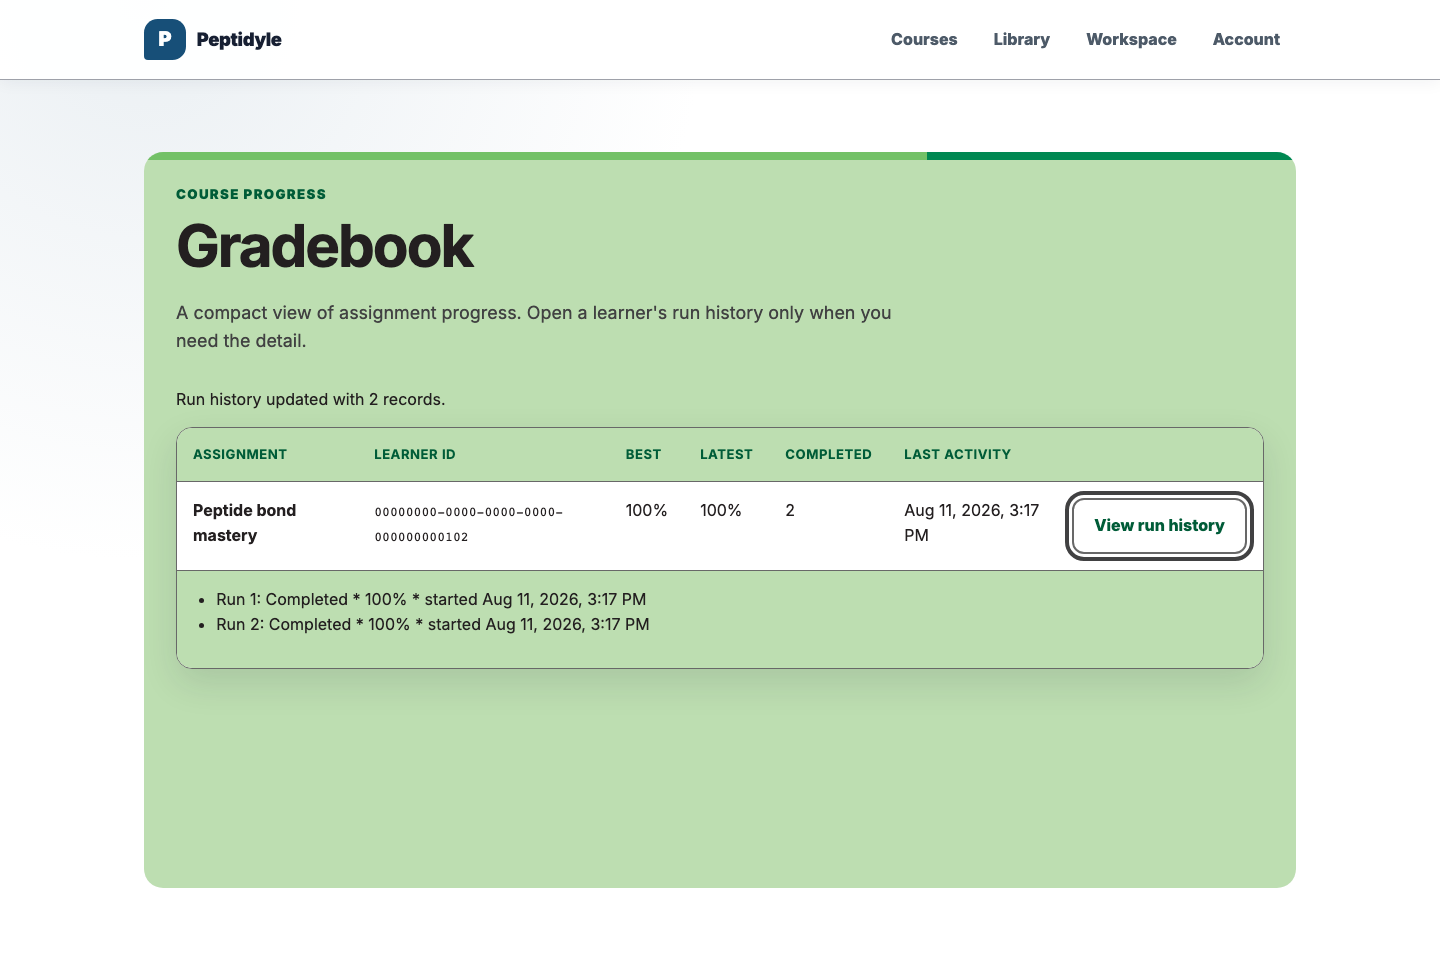
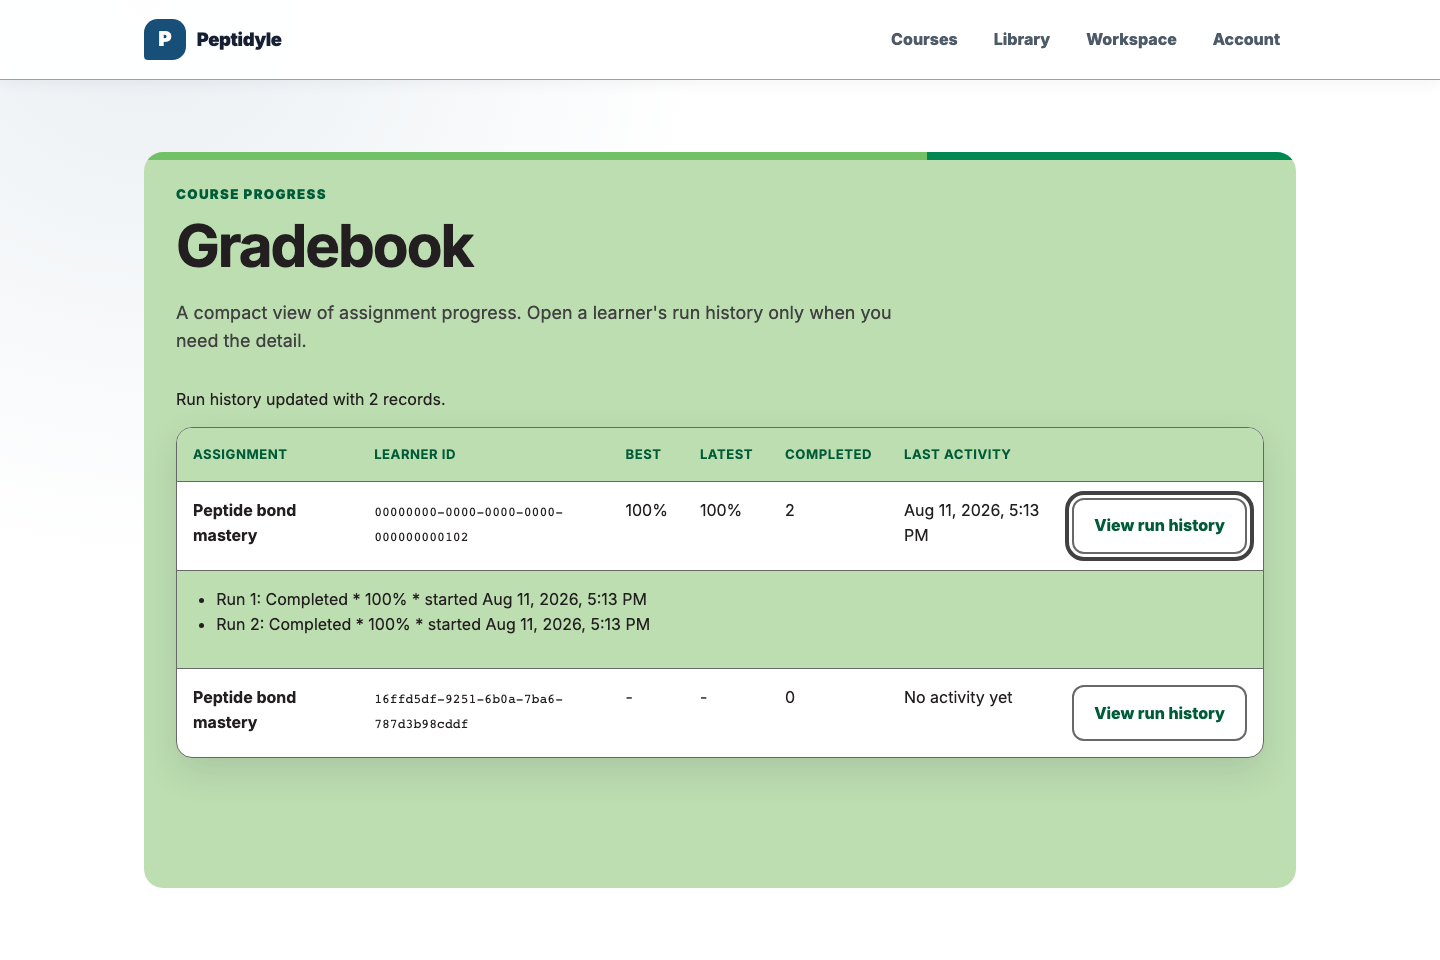
Expanded the accepted real-stack documentation capture from three ima...
instructor and student story: fake course, two-member fake roster, published problem, assignment ...

Changed region(s): [[0.125, 0.6875, 0.875, 0.8125], [0.4062, 0.625, 0.4688, 0.6562], [0.625, 0.5312, 0.6562, 0.5625]]

diff --git a/tests/playwright/ui_walkthrough_instructor_setup.spec.ts b/tests/playwright/ui_walkthrough_instructor_setup.spec.ts
@@ -15,7 +15,10 @@ import {
   learnerAliasFromValidatedFile,
 } from "./ui_walkthrough_live_config";
 import { exactCatalogResult } from "./simulator/instructor_catalog_binding";
-import { documentationScreenshotsEnabled } from "./docs_screenshot_capture";
+import {
+  captureDocumentationScreenshot,
+  documentationScreenshotsEnabled,
+} from "./docs_screenshot_capture";
 
 test.describe.configure({ mode: "serial" });
 test.setTimeout(120_000);
@@ -53,7 +56,7 @@ test("J11/J12/J13 instructor visibly prepares a local Mastery assignment and han
   const startedAt = performance.now();
   const uniqueSuffix = `${inputs.masterSeedText}-${Date.now().toString(36)}`;
   const courseTitle = documentationScreenshotsEnabled()
-    ? `Peptide bond mastery pilot ${uniqueSuffix}`
+    ? `Fake Biochemistry Course ${Date.now().toString(36).slice(-6)}`
     : `Fall pilot instructor walkthrough ${uniqueSuffix}`;
   const assignmentTitle = documentationScreenshotsEnabled()
     ? "Peptide bond mastery"
@@ -94,6 +97,7 @@ test("J11/J12/J13 instructor visibly prepares a local Mastery assignment and han
   await page.keyboard.press("Enter");
   await expect(page.getByRole("heading", { name: courseTitle, exact: true })).toBeVisible();
   writeInstructorSetupCheckpoint(inputs.instructorSetupCheckpointFile, "course_opened");
+  await captureDocumentationScreenshot(page, "instructor_course_overview.png");
   const courseId = new URL(page.url()).pathname.split("/")[2];
   if (courseId === undefined || !/^[0-9a-f-]{36}$/iu.test(courseId))
     throw new Error("visible course link is unavailable");
@@ -124,6 +128,22 @@ test("J11/J12/J13 instructor visibly prepares a local Mastery assignment and han
   await expect(activeRow).toHaveCount(1);
   await expect(activeRow).toBeFocused();
   writeInstructorSetupCheckpoint(inputs.instructorSetupCheckpointFile, "student_active");
+  if (documentationScreenshotsEnabled()) {
+    await tabTo(page, learnerAlias);
+    await expect(learnerAlias).toBeFocused();
+    await learnerAlias.fill("student-jack");
+    await tabTo(page, addStudent);
+    await expect(addStudent).toBeFocused();
+    await page.keyboard.press("Enter");
+    await expect(activeRow).toHaveCount(2);
+    await expect(page.getByRole("row", { name: /Jack Fake Student.*active/u })).toBeFocused();
+  }
+  await captureDocumentationScreenshot(
+    page,
+    "instructor_roster_active_student.png",
+    page.getByRole("heading", { name: "Course members", exact: true }),
+    72,
+  );
   const j12: InstructorSetupFragment = {
     schemaVersion: 2,
     journey: "J12",
@@ -167,17 +187,35 @@ test("J11/J12/J13 instructor visibly prepares a local Mastery assignment and han
   const addVersion = catalogRow.getByRole("button", { name: "Add published version", exact: true });
   await tabTo(page, addVersion);
   await expect(addVersion).toBeFocused();
+  await captureDocumentationScreenshot(
+    page,
+    "instructor_problem_catalog.png",
+    page.getByRole("heading", { name: "Published problem catalog", exact: true }),
+    72,
+  );
   await page.keyboard.press("Enter");
   await expect(page.getByLabel("Completion requirement")).toHaveValue("allCorrect");
   await expect(page.getByLabel("Grade policy")).toHaveValue("highest");
   await expect(page.getByLabel("Continued practice")).toHaveValue("unlimited");
   writeInstructorSetupCheckpoint(inputs.instructorSetupCheckpointFile, "catalog_result_selected");
+  await captureDocumentationScreenshot(
+    page,
+    "instructor_assignment_settings.png",
+    page.locator(".assignment-editor-grid"),
+    72,
+  );
   const createAssignment = page.getByRole("button", { name: "Create assignment", exact: true });
   await tabTo(page, createAssignment);
   await expect(createAssignment).toBeFocused();
   await page.keyboard.press("Enter");
   const assignmentLink = page.getByRole("link", { name: `Open ${assignmentTitle}`, exact: true });
   await expect(assignmentLink).toBeVisible();
+  await captureDocumentationScreenshot(
+    page,
+    "instructor_assignment_created.png",
+    page.locator(".success-state"),
+    72,
+  );
   writeInstructorSetupCheckpoint(inputs.instructorSetupCheckpointFile, "assignment_created");
   const assignmentHref: unknown = await assignmentLink.getAttribute("href");
   if (typeof assignmentHref !== "string") {

diff --git a/tests/playwright/simulator/retry_corpus.ts b/tests/playwright/simulator/retry_corpus.ts
@@ -53,9 +53,9 @@ interface FlatQuestionSource {
     readonly maxAttempts: null;
     readonly feedback: "immediateFull";
   };
-  readonly timingPolicy: {
-    readonly kind: "untimed";
-  };
+  readonly timingPolicy:
+    | { readonly kind: "untimed" }
+    | { readonly kind: "perQuestion"; readonly seconds: 900; readonly graceSeconds: 30 };
   readonly tags: readonly [];
   readonly taxonomy: readonly [];
   readonly license: {
@@ -97,6 +97,7 @@ export interface RetryCorpusInputs {
   readonly baseUrl: string;
   readonly instructorCredential: string;
   readonly masterSeed: number;
+  readonly timedQuestion?: boolean;
 }
 
 export interface PublishedRetryCorpus {
@@ -171,7 +172,11 @@ export async function arrangeRetryCorpusWithRequestFactory(
     stage = "save";
     const workspace = globalThis.crypto.randomUUID();
     const catalogSearchTitle = retryCorpusCatalogSearchTitle(workspace);
-    const source = retryCorpusSource(inputs.masterSeed, catalogSearchTitle);
+    const source = retryCorpusSource(
+      inputs.masterSeed,
+      catalogSearchTitle,
+      inputs.timedQuestion === true,
+    );
     const etag = await savePrivateSource(context, workspace, source);
     stage = "publish";
     const published = await publishInstitutionally(context, workspace, etag);
@@ -194,17 +199,21 @@ export async function arrangeRetryCorpusWithRequestFactory(
 
 /**
  * Names the newly arranged public corpus without deriving anything from its answer-bearing source.
- * The random workspace UUID makes a retained catalog unambiguous for the visible instructor search.
- * Its compact token has no web-search punctuation, so simple-dictionary search treats it as one
- * ordinary term rather than interpreting UUID hyphens as operators.
+ * A bounded token from the random workspace UUID keeps retained-catalog collisions negligible for
+ * the visible instructor search without turning the learner-facing title into an internal ID dump.
+ * The explicit Fake label makes captured demo content impossible to mistake for a real course item.
  */
 export function retryCorpusCatalogSearchTitle(workspace: string): string {
   if (!UUID.test(workspace)) throw new Error("retry corpus workspace must be a UUID");
   const workspaceToken = workspace.replace(/-/gu, "").toLowerCase();
-  return `Pilot retry corpus pilotref${workspaceToken}`;
+  return `Fake amino acid question ${workspaceToken.slice(0, 12)}`;
 }
 
-function retryCorpusSource(masterSeed: number, title: string): FlatQuestionSource {
+function retryCorpusSource(
+  masterSeed: number,
+  title: string,
+  timedQuestion: boolean,
+): FlatQuestionSource {
   const stream = create_named_stream(masterSeed, RETRY_CORPUS_STREAM);
   const variant = choose_value(stream, RETRY_CORPUS_VARIANTS);
   return {
@@ -218,7 +227,9 @@ function retryCorpusSource(masterSeed: number, title: string): FlatQuestionSourc
     feedback: {},
     points: 1,
     attemptPolicy: { maxAttempts: null, feedback: "immediateFull" },
-    timingPolicy: { kind: "untimed" },
+    timingPolicy: timedQuestion
+      ? { kind: "perQuestion", seconds: 900, graceSeconds: 30 }
+      : { kind: "untimed" },
     tags: [],
     taxonomy: [],
     license: { kind: "cc0" },

diff --git a/tests/playwright/simulator/retry_corpus.spec.ts b/tests/playwright/simulator/retry_corpus.spec.ts
@@ -167,7 +167,7 @@ test("authors, publishes, and inspects an answer-free retry corpus through suppo
     masterSeed: 42,
   });
   expect(published).toMatchObject({ ...PUBLISHED_REFERENCE, arrangement: "native-retry-corpus" });
-  expect(published.catalogSearchTitle).toMatch(/^Pilot retry corpus pilotref[0-9a-f]{32}$/u);
+  expect(published.catalogSearchTitle).toMatch(/^Fake amino acid question [0-9a-f]{12}$/u);
   expect(published).not.toHaveProperty("correctChoice");
   const replay = fakeRequest(successfulReplies());
   await expect(
@@ -178,7 +178,7 @@ test("authors, publishes, and inspects an answer-free retry corpus through suppo
     }),
   ).resolves.toMatchObject({ ...PUBLISHED_REFERENCE, arrangement: "native-retry-corpus" });
   expect(replay.captured[1]?.data).toMatchObject({
-    title: expect.stringMatching(/^Pilot retry corpus pilotref[0-9a-f]{32}$/u),
+    title: expect.stringMatching(/^Fake amino acid question [0-9a-f]{12}$/u),
   });
   expect(fake.captured.map(({ method, path }) => ({ method, path }))).toEqual([
     { method: "post", path: "/api/auth/login" },
@@ -212,12 +212,25 @@ test("authors, publishes, and inspects an answer-free retry corpus through suppo
   expect(fake.state.disposed).toBe(true);
 });
 
-test("derives a unique public catalog token that simple web search reads as ordinary terms", () => {
+test("derives a compact, unmistakably fake public catalog title", () => {
   const title = retryCorpusCatalogSearchTitle("123e4567-e89b-12d3-a456-426614174000");
-  expect(title).toBe("Pilot retry corpus pilotref123e4567e89b12d3a456426614174000");
+  expect(title).toBe("Fake amino acid question 123e4567e89b");
   expect(title).toMatch(/^[A-Za-z0-9 ]+$/u);
   expect(title).not.toContain("-");
   expect(() => retryCorpusCatalogSearchTitle("not-a-uuid")).toThrow("workspace");
+});
+
+test("authors a bounded per-question timer for documentation capture when requested", async () => {
+  const fake = fakeRequest(successfulReplies());
+  await arrangeRetryCorpusWithRequestFactory(fake.request, {
+    baseUrl: "http://127.0.0.1:3000",
+    instructorCredential: INSTRUCTOR_CREDENTIAL,
+    masterSeed: 42,
+    timedQuestion: true,
+  });
+  expect(fake.captured[1]?.data).toMatchObject({
+    timingPolicy: { kind: "perQuestion", seconds: 900, graceSeconds: 30 },
+  });
 });
 
 test("rejects a weak save revision before publication and redacts the credential", async () => {

diff --git a/tests/playwright/ui_walkthrough_live_config.spec.ts b/tests/playwright/ui_walkthrough_live_config.spec.ts
@@ -146,8 +146,7 @@ test("instructor-only setup accepts no arranged IDs and reads the alias only at 
       PLE_UI_WALKTHROUGH_LIVE_LEARNER_ALIAS_FILE: "fixture-learner-alias.txt",
       PLE_UI_WALKTHROUGH_INSTRUCTOR_SETUP_CHECKPOINT_FILE:
         "/private/tmp/instructor-setup-checkpoint.txt",
-      PLE_UI_WALKTHROUGH_CATALOG_SEARCH_TITLE:
-        "Pilot retry corpus pilotref123e4567e89b12d3a456426614174000",
+      PLE_UI_WALKTHROUGH_CATALOG_SEARCH_TITLE: "Fake amino acid question 123e4567e89b",
     },
     () => undefined,
     () => undefined,
@@ -155,7 +154,7 @@ test("instructor-only setup accepts no arranged IDs and reads the alias only at 
   expect(setupInputs).toMatchObject({
     baseUrl: "http://127.0.0.1:3000",
     learnerAliasFile: "fixture-learner-alias.txt",
-    catalogSearchTitle: "Pilot retry corpus pilotref123e4567e89b12d3a456426614174000",
+    catalogSearchTitle: "Fake amino acid question 123e4567e89b",
     instructorSetupCheckpointFile: "/private/tmp/instructor-setup-checkpoint.txt",
   });
   expect(
@@ -187,8 +186,7 @@ test("instructor-only setup accepts no arranged IDs and reads the alias only at 
         PLE_UI_WALKTHROUGH_LIVE_LEARNER_ALIAS_FILE: "fixture-learner-alias.txt",
         PLE_UI_WALKTHROUGH_INSTRUCTOR_SETUP_CHECKPOINT_FILE:
           "/private/tmp/instructor-setup-checkpoint.txt",
-        PLE_UI_WALKTHROUGH_CATALOG_SEARCH_TITLE:
-          "Pilot retry corpus 123e4567-e89b-12d3-a456-426614174000",
+        PLE_UI_WALKTHROUGH_CATALOG_SEARCH_TITLE: "Amino acid question 123e4567e89b",
       },
       () => undefined,
       () => undefined,
@@ -201,8 +199,7 @@ test("instructor-only setup accepts no arranged IDs and reads the alias only at 
         PLE_UI_WALKTHROUGH_INSTRUCTOR_SETUP_ONLY: "1",
         PLE_UI_WALKTHROUGH_LIVE_LEARNER_ALIAS_FILE: "fixture-learner-alias.txt",
         PLE_UI_WALKTHROUGH_INSTRUCTOR_SETUP_CHECKPOINT_FILE: "/private/tmp/other.txt",
-        PLE_UI_WALKTHROUGH_CATALOG_SEARCH_TITLE:
-          "Pilot retry corpus pilotref123e4567e89b12d3a456426614174000",
+        PLE_UI_WALKTHROUGH_CATALOG_SEARCH_TITLE: "Fake amino acid question 123e4567e89b",
       },
       () => undefined,
       () => undefined,

diff --git a/tests/playwright/ui_walkthrough_keyboard_j1.spec.ts b/tests/playwright/ui_walkthrough_keyboard_j1.spec.ts
@@ -11,6 +11,10 @@ import {
 } from "./simulator/student_repeat_state";
 import { writeJ1Checkpoint, type J1Checkpoint } from "./simulator/j1_checkpoint";
 import { studentCredentialFromValidatedFile } from "./ui_walkthrough_live_config";
+import {
+  captureDocumentationScreenshot,
+  documentationScreenshotsEnabled,
+} from "./docs_screenshot_capture";
 
 test.describe.configure({ mode: "serial" });
 
@@ -99,6 +103,12 @@ test("J1 student reaches visible retry controls for the instructor-created Maste
   await tabTo(page, assignmentLink, "backward");
   await expect(assignmentLink).toBeFocused();
   checkpoint("assignment_visible");
+  await captureDocumentationScreenshot(
+    page,
+    "student_assignment_list.png",
+    assignmentLink.locator("xpath=ancestor::article[contains(@class, 'course-card')]"),
+    72,
+  );
   await page.keyboard.press("Enter");
   await expect(page.locator("#main-content")).toBeFocused();
 
@@ -116,6 +126,10 @@ test("J1 student reaches visible retry controls for the instructor-created Maste
   const response = radios.nth(0);
   await tabTo(page, response);
   await expect(response).toBeFocused();
+  if (documentationScreenshotsEnabled()) {
+    await expect(page.getByRole("timer")).not.toHaveText("Untimed");
+  }
+  await captureDocumentationScreenshot(page, "student_timed_problem.png");
   await page.keyboard.press("Space");
   await expect(response).toBeChecked();
   const submit = page.getByRole("button", { name: "Submit answer" });

diff --git a/tests/playwright/docs_screenshot_capture.ts b/tests/playwright/docs_screenshot_capture.ts
@@ -15,8 +15,16 @@ const CAPTURE_DIRECTORY_PARENT = "/private/tmp";
 const CAPTURE_DIRECTORY_PREFIX = "ple-docs-screenshots.";
 
 export const documentationScreenshotNames = [
+  "instructor_course_overview.png",
+  "instructor_roster_active_student.png",
+  "instructor_problem_catalog.png",
+  "instructor_assignment_settings.png",
+  "instructor_assignment_created.png",
   "peptide_bond_mastery_overview.png",
+  "student_assignment_list.png",
+  "student_timed_problem.png",
   "student_fresh_practice.png",
+  "student_retake_fresh_problem.png",
   "instructor_gradebook_mastery_loop.png",
 ] as const;
 
@@ -46,7 +54,8 @@ async function validateCaptureDirectory(directory: string): Promise<void> {
   if (!metadata.isDirectory() || metadata.isSymbolicLink()) {
     throw new Error("documentation screenshot directory must be a regular directory");
   }
-  if (metadata.uid !== process.getuid()) {
+  const getuid = process.getuid;
+  if (getuid === undefined || metadata.uid !== getuid()) {
     throw new Error("documentation screenshot directory must be owned by this user");
   }
   if ((metadata.mode & 0o777) !== 0o700) {

diff --git a/tests/playwright/ui_walkthrough_keyboard_j4.spec.ts b/tests/playwright/ui_walkthrough_keyboard_j4.spec.ts
@@ -104,16 +104,19 @@ test("J4 completes the resumed second Mastery run through visible keyboard contr
   await expect(
     page.getByRole("heading", { name: "Keep practicing with a fresh variation" }),
   ).toBeVisible({ timeout: 30_000 });
-  await expect(page.getByRole("button", { name: "Start another practice run" })).toBeVisible();
-  const back = page.getByRole("button", { name: "Back to assignment" });
-  await tabTo(page, back);
-  await expect(back).toBeFocused();
+  const freshPractice = page.getByRole("button", { name: "Start another practice run" });
+  await expect(freshPractice).toBeVisible();
+  await tabTo(page, freshPractice);
+  await expect(freshPractice).toBeFocused();
   await captureDocumentationScreenshot(
     page,
     "student_fresh_practice.png",
     page.locator(".attempt-summary"),
     72,
   );
+  const back = page.getByRole("button", { name: "Back to assignment" });
+  await tabTo(page, back);
+  await expect(back).toBeFocused();
   appendStudentRepeatState(
     inputs.journeyStateFile,
     passedStudentRepeatFragment(

diff --git a/tests/playwright/simulator/ui_walkthrough_arrange.spec.ts b/tests/playwright/simulator/ui_walkthrough_arrange.spec.ts
@@ -33,7 +33,7 @@ test("instructor setup retains only the supported retry-corpus publication arran
   const output = instructorSetupArrangementOutput({
     problem: "123e4567-e89b-12d3-a456-426614174001",
     version: "123e4567-e89b-12d3-a456-426614174002",
-    catalogSearchTitle: "Pilot retry corpus pilotref123e4567e89b12d3a456426614174000",
+    catalogSearchTitle: "Fake amino acid question 123e4567e89b",
   });
   expect(output).toEqual({
     arrangements: [
@@ -41,7 +41,7 @@ test("instructor setup retains only the supported retry-corpus publication arran
         label: "api-retry-corpus-publication",
         problemId: "123e4567-e89b-12d3-a456-426614174001",
         versionId: "123e4567-e89b-12d3-a456-426614174002",
-        catalogSearchTitle: "Pilot retry corpus pilotref123e4567e89b12d3a456426614174000",
+        catalogSearchTitle: "Fake amino acid question 123e4567e89b",
       },
     ],
   });

diff --git a/tests/playwright/ui_walkthrough_keyboard_j5.spec.ts b/tests/playwright/ui_walkthrough_keyboard_j5.spec.ts
@@ -106,8 +106,11 @@ test("J5 instructor opens gradebook run history with the keyboard after learner 
 
     await expect(page.locator("[data-route-surface=gradebook]")).toBeVisible({ timeout: 30_000 });
     const row = page
-      .getByRole("row")
-      .filter({ has: page.getByRole("rowheader", { name: assignment.title, exact: true }) });
+      .locator("tr.gradebook-row")
+      .filter({ has: page.getByRole("rowheader", { name: assignment.title, exact: true }) })
+      .filter({ has: page.locator('td[data-label="Best"]', { hasText: /^100%$/u }) })
+      .filter({ has: page.locator('td[data-label="Latest"]', { hasText: /^100%$/u }) })
+      .filter({ has: page.locator('td[data-label="Completed"]', { hasText: /^2$/u }) });
     const historyButton = row.getByRole("button", { name: "View run history", exact: true });
     await tabToTargetThroughVisiblePagination(page, {
       target: row,

diff --git a/tests/playwright/ui_walkthrough_keyboard_j2.spec.ts b/tests/playwright/ui_walkthrough_keyboard_j2.spec.ts
@@ -231,5 +231,9 @@ test("J2 resumes the visible retry and completes the first instructor-created Ma
   await expect(radios).toHaveCount(2, { timeout: 30_000 });
   await expect(radios.nth(0)).not.toBeChecked();
   await expect(radios.nth(1)).not.toBeChecked();
+  await expect(page.getByText("Practice run 2", { exact: true })).toBeVisible();
+  await tabTo(page, radios.nth(0));
+  await expect(radios.nth(0)).toBeFocused();
+  await captureDocumentationScreenshot(page, "student_retake_fresh_problem.png");
   appendPassedJourneyState(Math.round(performance.now() - startedAt));
 });

diff --git a/tests/playwright/ui_walkthrough_live_config.ts b/tests/playwright/ui_walkthrough_live_config.ts
@@ -83,7 +83,7 @@ export function walkthroughArtifactsDirectory(journeyStateFile: string): string 
 }
 
 const UUID = /^[0-9a-f]{8}-[0-9a-f]{4}-[1-8][0-9a-f]{3}-[89ab][0-9a-f]{3}-[0-9a-f]{12}$/iu;
-const CATALOG_SEARCH_TITLE = new RegExp("^Pilot retry corpus pilotref[0-9a-f]{32}$", "u");
+const CATALOG_SEARCH_TITLE = new RegExp("^Fake amino acid question [0-9a-f]{12}$", "u");
 
 function validateLocalCredential(contents: string, role: "student" | "instructor"): string {
   const matches = [...contents.matchAll(new RegExp(`^${role}=([^\\r\\n]+)$`, "gmu"))];

diff --git a/tests/playwright/simulator/instructor_catalog_binding.spec.ts b/tests/playwright/simulator/instructor_catalog_binding.spec.ts
@@ -4,7 +4,7 @@ import { expect, test } from "@playwright/test";
 
 import { exactCatalogResult } from "./instructor_catalog_binding";
 
-const CATALOG_TITLE = "Pilot retry corpus pilotref123e4567e89b12d3a456426614174000";
+const CATALOG_TITLE = "Fake amino acid question 123e4567e89b";
 
 function catalogArticle(title: string): string {
   return `<article><h3>${title}</h3><button type="button">Add published version</button></article>`;
